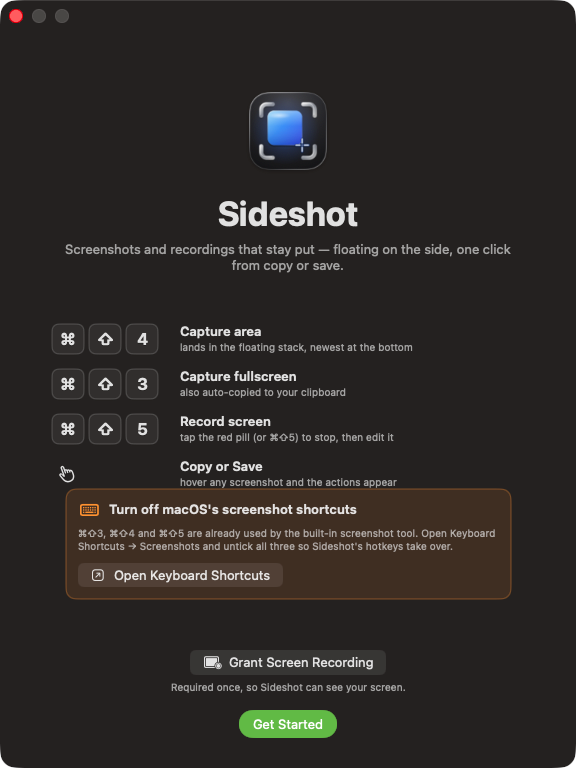
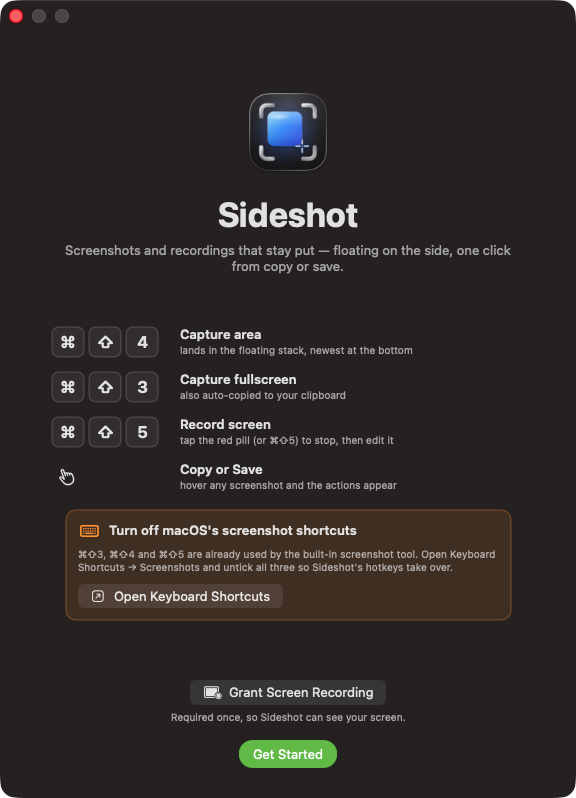
Onboarding: breathe room around the shortcut-conflict callout

diff --git a/Sideshot/Onboarding.swift b/Sideshot/Onboarding.swift
@@ -5,7 +5,7 @@ import SwiftUI
 
 final class OnboardingWindow: NSWindow {
     init() {
-        super.init(contentRect: NSRect(x: 0, y: 0, width: 560, height: 736),
+        super.init(contentRect: NSRect(x: 0, y: 0, width: 560, height: 766),
                    styleMask: [.titled, .closable, .fullSizeContentView],
                    backing: .buffered, defer: false)
         isReleasedWhenClosed = false
@@ -14,7 +14,7 @@ final class OnboardingWindow: NSWindow {
         isMovableByWindowBackground = true
         center()
         contentView = NSHostingView(rootView: OnboardingView(onFinish: { [weak self] in self?.finish() }))
-        setContentSize(NSSize(width: 560, height: 736))
+        setContentSize(NSSize(width: 560, height: 766))
     }
 
     func present() {
@@ -88,9 +88,11 @@ struct OnboardingView: View {
             .padding(12)
             .background(RoundedRectangle(cornerRadius: 10, style: .continuous).fill(Color.orange.opacity(0.10)))
             .overlay(RoundedRectangle(cornerRadius: 10, style: .continuous).stroke(Color.orange.opacity(0.35), lineWidth: 1))
+            .padding(.top, 18)
+            .padding(.bottom, 8)
             .padding(.horizontal, 44)
 
-            Spacer(minLength: 22)
+            Spacer(minLength: 26)
 
             Button {
                 NSWorkspace.shared.open(URL(string: "x-apple.systempreferences:com.apple.preference.security?Privacy_ScreenCapture")!)
@@ -111,7 +113,7 @@ struct OnboardingView: View {
                 .padding(.top, 16)
                 .padding(.bottom, 30)
         }
-        .frame(width: 560, height: 736)
+        .frame(width: 560, height: 766)
         .padding(.horizontal, 8)
     }
 }
